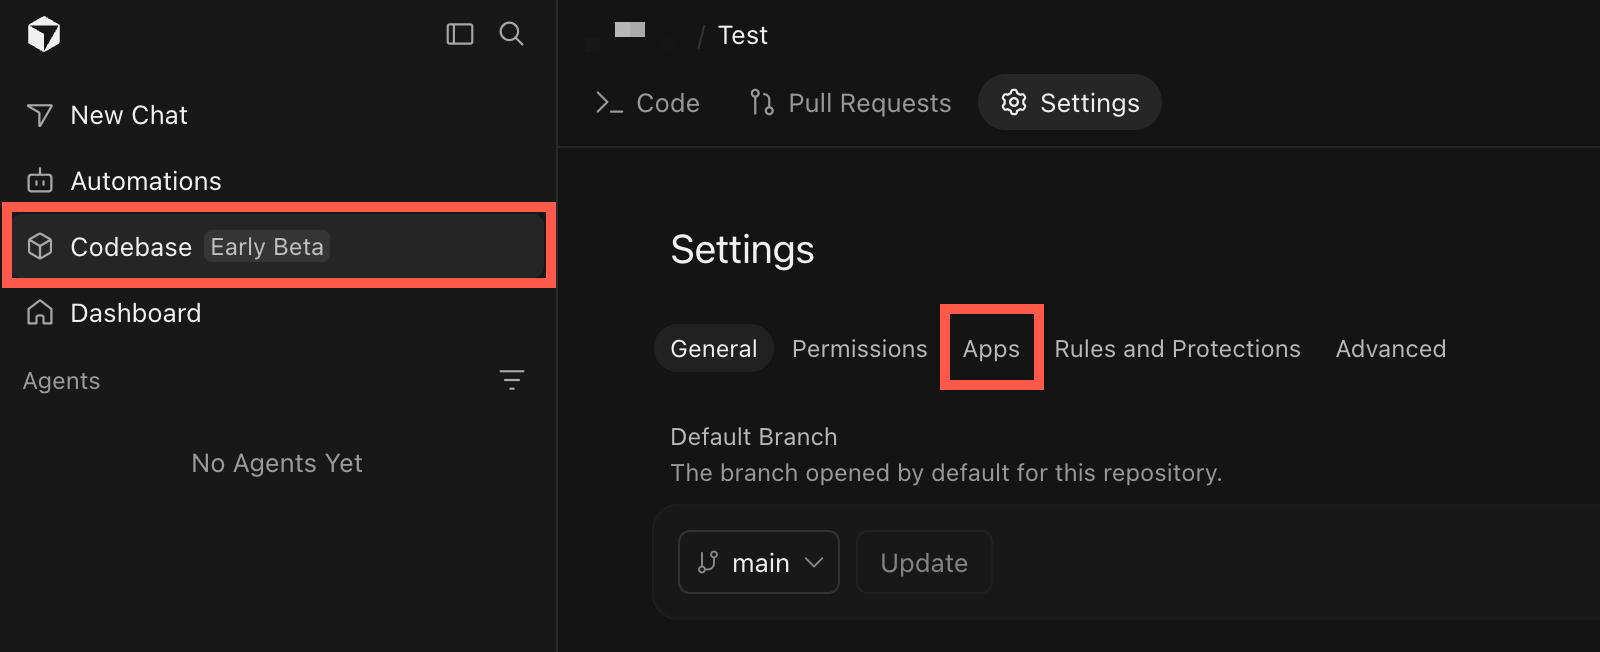
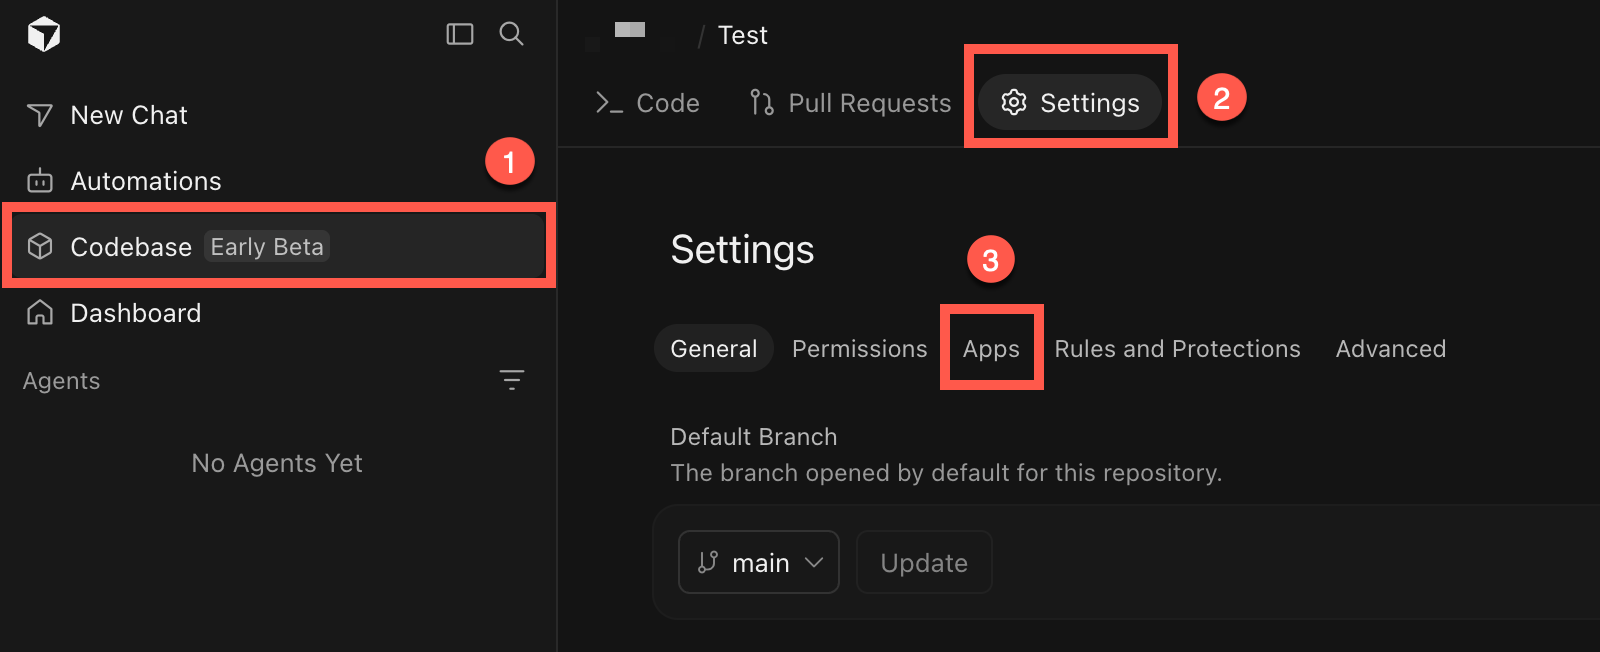
Clarify Origin app discovery flow
Amp-Thread-ID: https://ampcode.com/threads/T-01a01ec1-e943-761b-a1a9-f2e31038b7fe

Changed region(s): [[0.5938, 0.0613, 0.7812, 0.2454], [0.5938, 0.3681, 0.6562, 0.4294], [0.2812, 0.2147, 0.3438, 0.2761]]

diff --git a/pages/pipelines/source_control/origin.md b/pages/pipelines/source_control/origin.md
@@ -19,16 +19,22 @@ The Buildkite app supports Origin-hosted repositories. It does not support repos
 
 You must be an Origin administrator to install Buildkite from a codebase's settings. Your team must also have [enabled Origin and claimed a codebase name](https://cursor.com/docs/origin#enable-origin).
 
-1. Open [Origin codebase Apps settings](https://cursor.com/codebase/settings/apps). You can also open an Origin-hosted repository, select **Settings** > **Apps**, then select **Manage Apps**.
+1. Open [Origin codebase Apps settings](https://cursor.com/codebase/settings/apps).
 
-    <%= image "codebase-settings-apps.png", width: 1600/2, height: 652/2, alt: "Origin repository settings with Codebase and Apps highlighted" %>
+    <%= image "codebase-settings-bk.png", width: 2184/2, height: 688/2, alt: "Origin Codebase Settings Apps tab showing Buildkite under Installed" %>
 
-1. Under **Third-party apps**, select **Buildkite**, then select **Install**.
+    _In **Codebase**, open **Settings** > **Apps** to find Buildkite._
+
+1. Select **Buildkite**. If Buildkite appears under **Installed**, the app is already installed for the codebase. Skip to [create a pipeline](#create-a-pipeline).
 1. Choose whether to grant access to all repositories or selected repositories.
 1. Install the app. Origin redirects you to Buildkite.
 1. Sign in to an existing Buildkite account or sign up for a new account.
 1. Select or create a Buildkite organization. Buildkite names the verified Origin account before you confirm the connection. Check that it matches the installation you started from.
 1. On the **New Pipeline** page, select a repository and create the pipeline.
+
+To confirm that Buildkite is active for a specific Origin-hosted repository, open the repository, then select **Settings** > **Apps**.
+
+<%= image "codebase-settings-apps.png", width: 1600/2, height: 652/2, alt: "Origin repository settings with Codebase and Apps highlighted" %>
 
 <%= image "installed-buildkite.png", width: 1600/2, height: 672/2, alt: "Origin repository Apps settings showing Buildkite under Installed" %>
 
